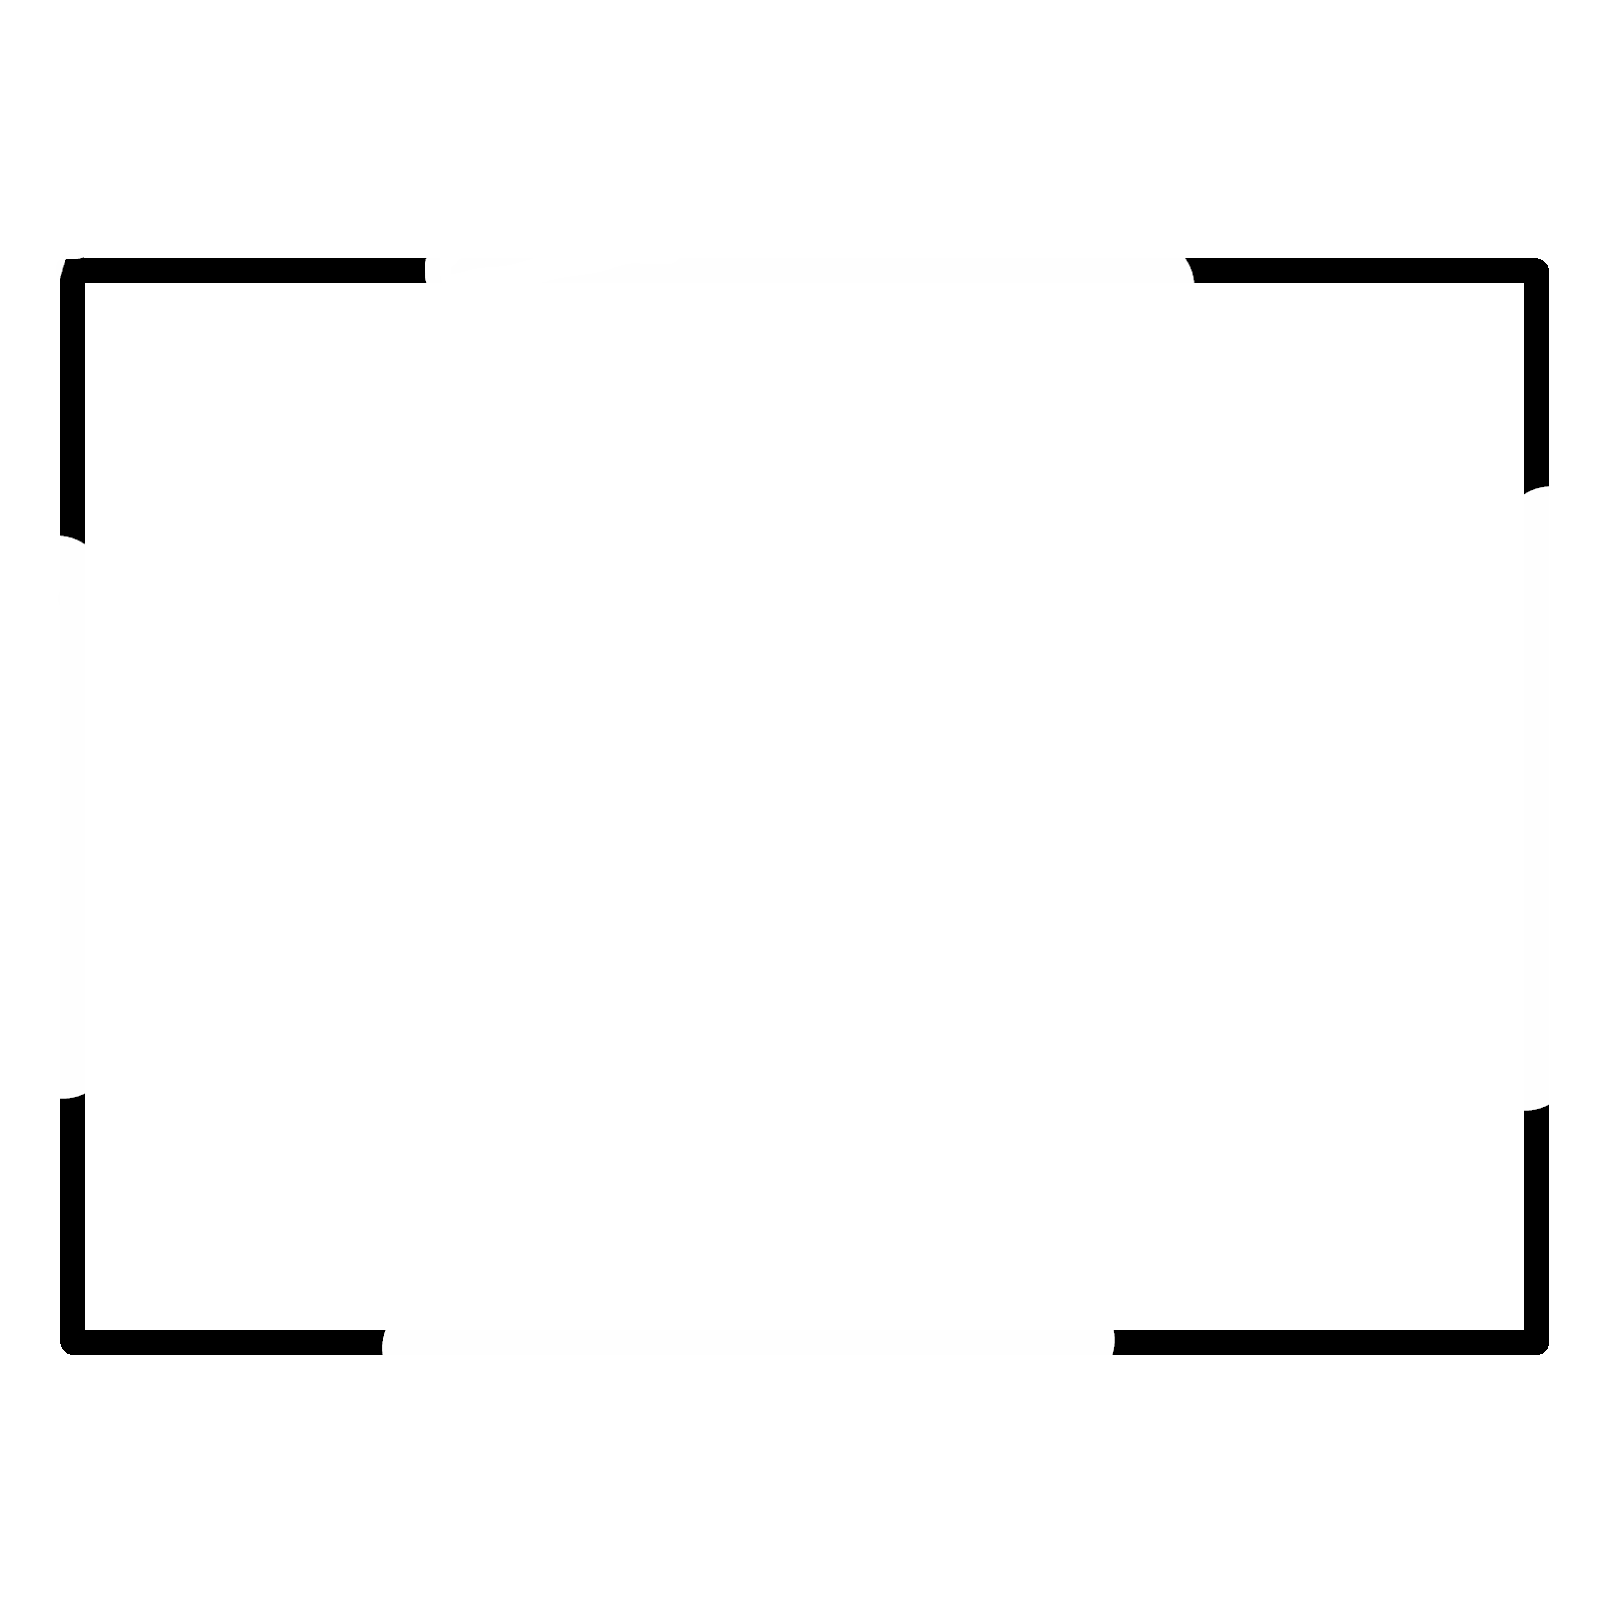
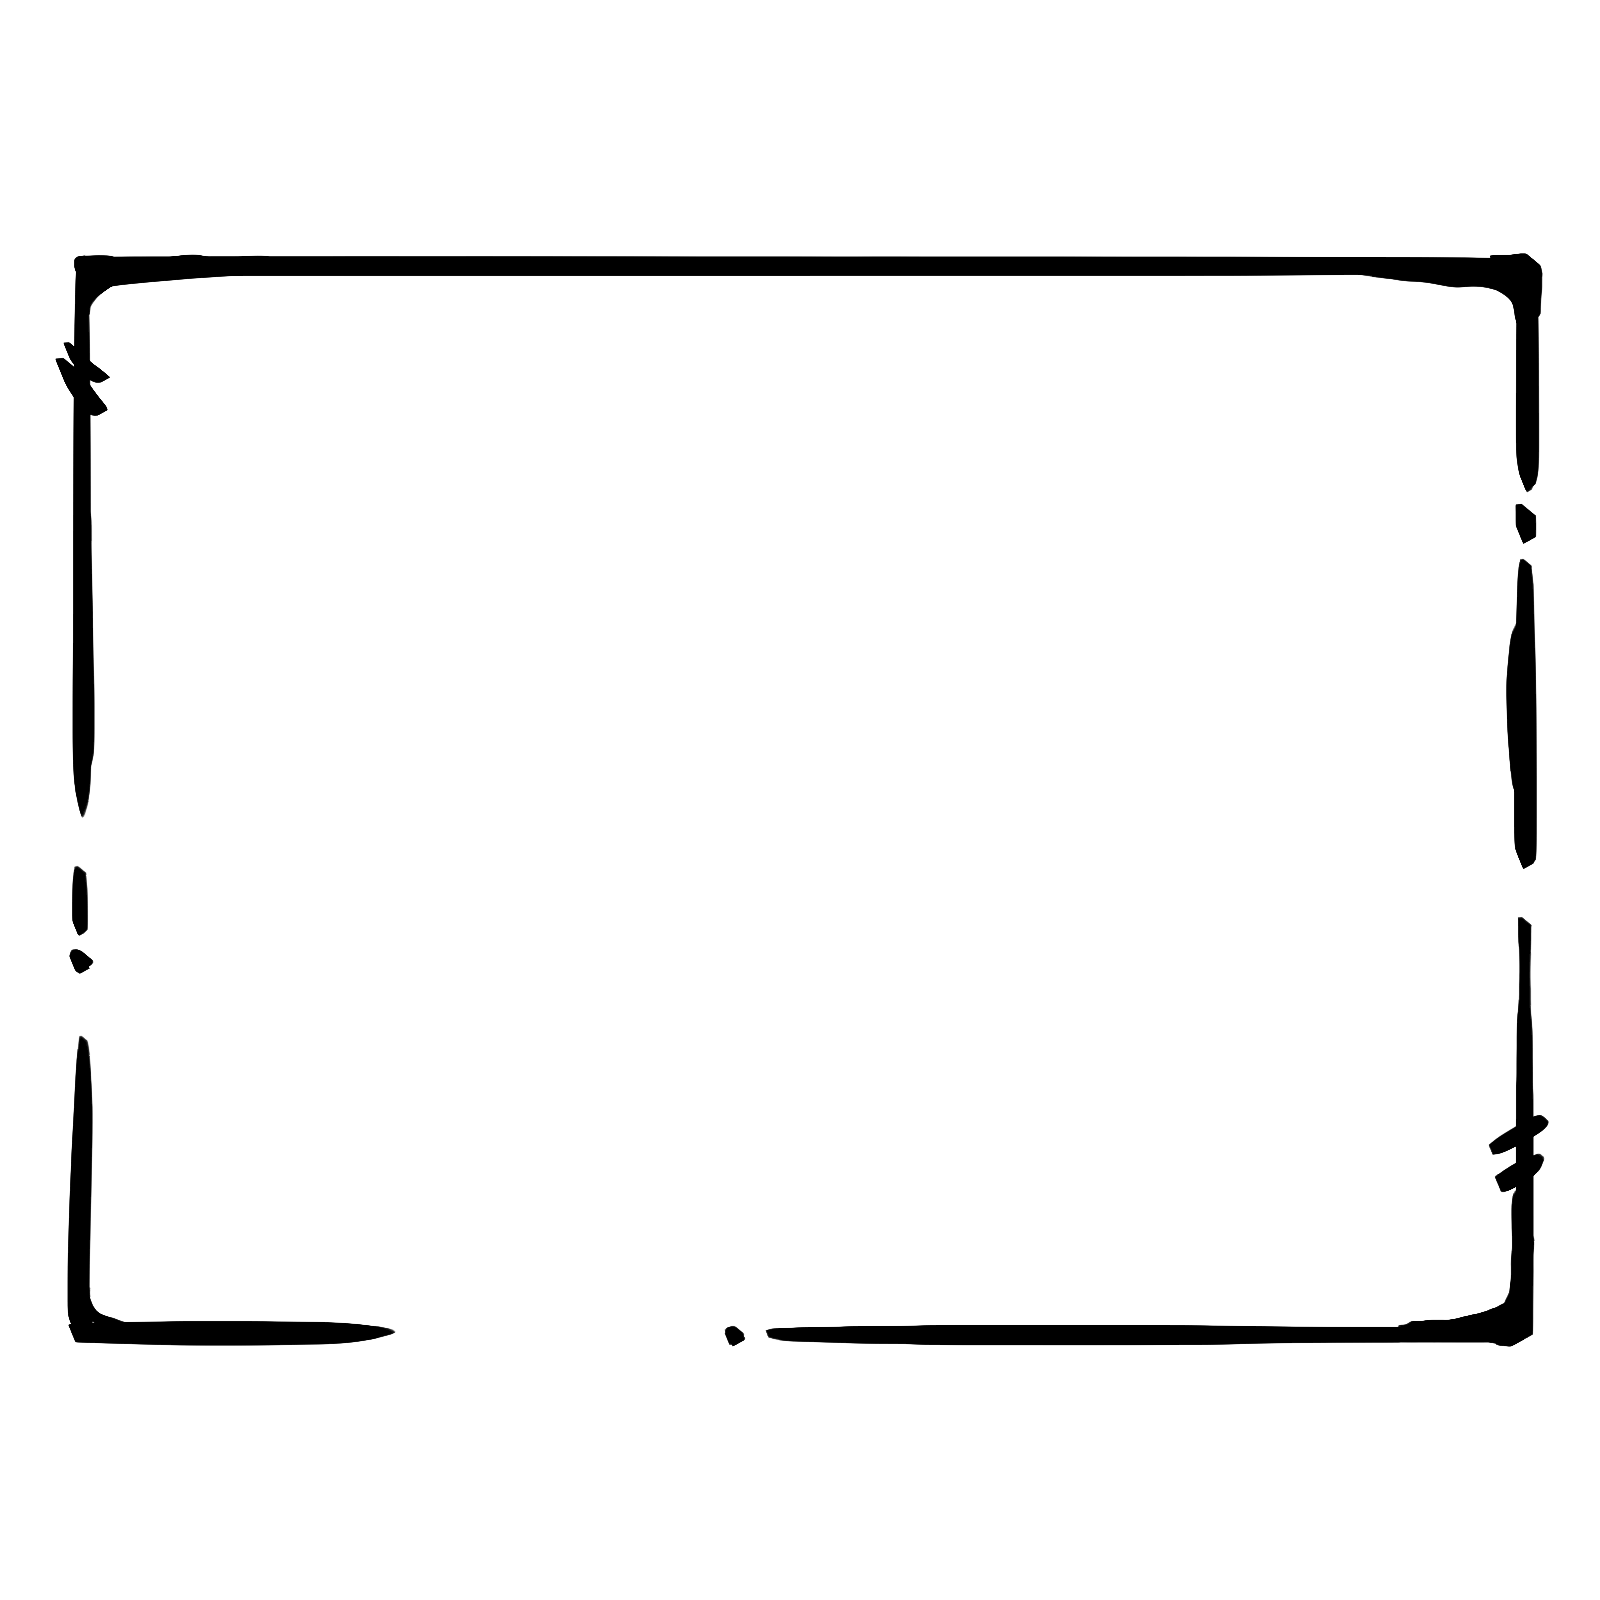
Index Card Design by Kane Driscol

diff --git a/static/client/drawing.js b/static/client/drawing.js
@@ -83,6 +83,8 @@ function drawAll(target) {
     } else {
         // load index card
         if (mode == 'card') {
+            target.fillStyle = '#FFFFFF'
+            target.fillRect(0, 0, card_width, card_height)
             target.drawImage(index_card, 0, 0, card_width, card_height)
         }
         
@@ -109,7 +111,7 @@ function initDrawing(as_background) {
     drag = null
     drawAll(context)
 
-    index_card.src = '/static/index_card.jpg'
+    index_card.src = '/static/index_card.png'
     token_background.src = '/static/token_background.png'
     token_border.src = '/static/token_border.png'
 
